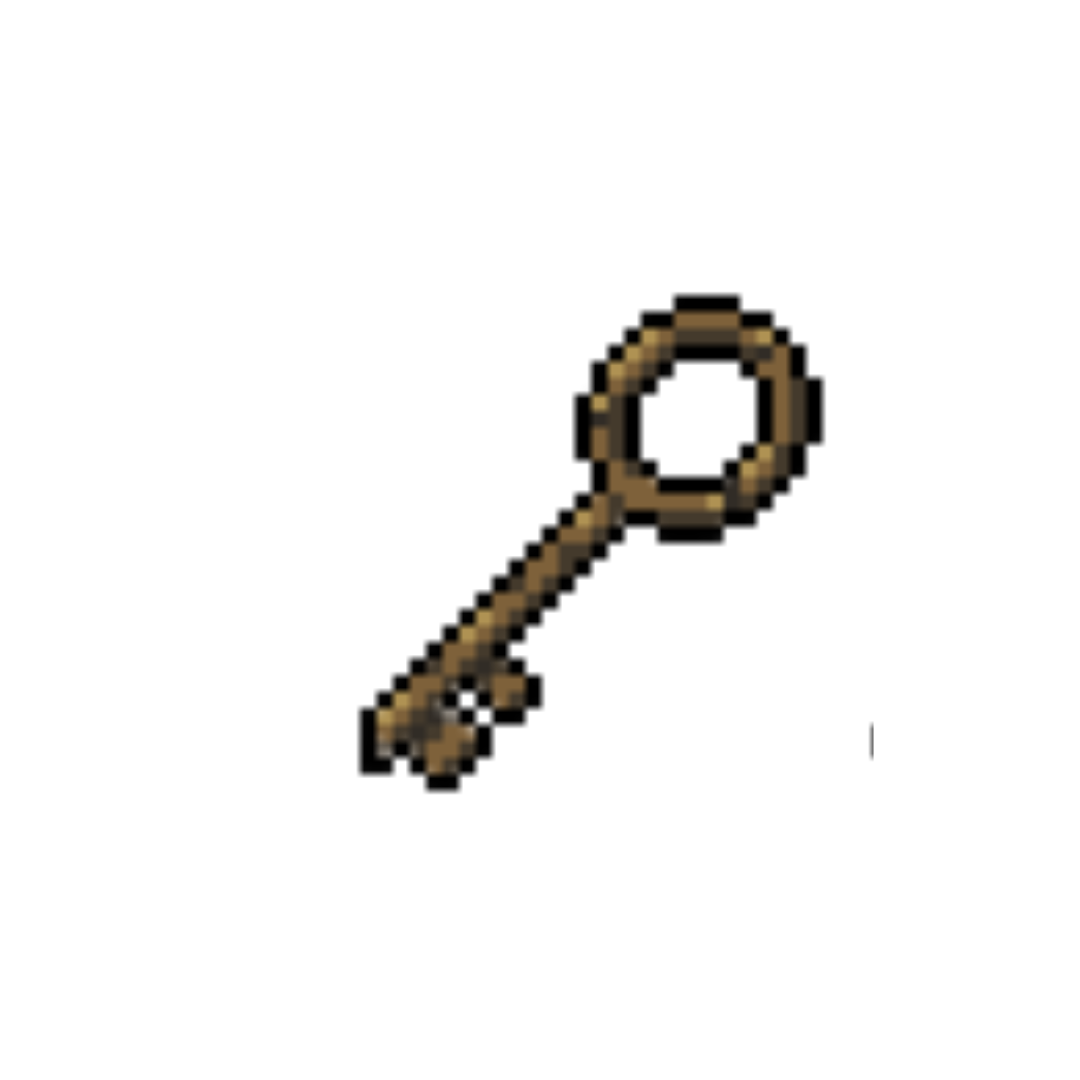
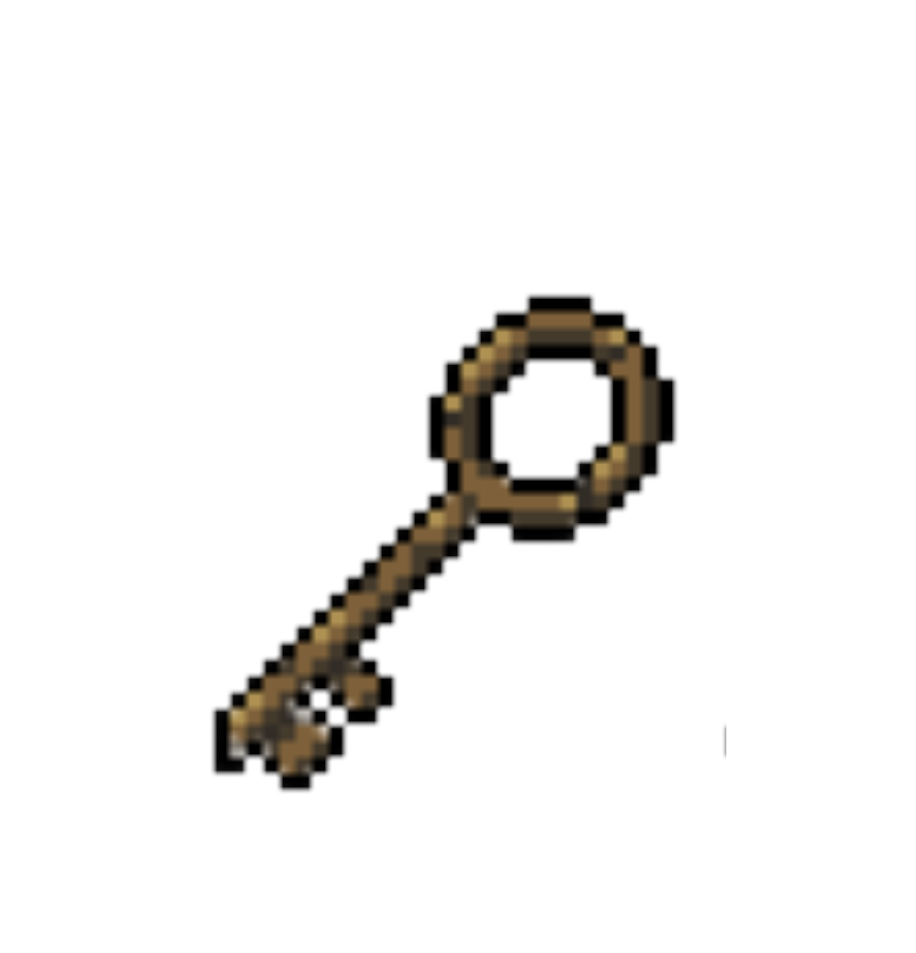
inventory added

Changed region(s): [[0.214, 0.2434, 0.7642, 0.852], [0.7948, 0.6695, 0.8253, 0.6999]]

diff --git a/project/Where are you/player.js b/project/Where are you/player.js
@@ -13,6 +13,8 @@ PLAYER.box.style.height = "10vh";
 let colliders = document.querySelectorAll('.collider');
 let keyItem = document.getElementById("keyItem");
 let hasKey = false;
+let collectedKey = document.getElementById("collectedKey");
+let collectedLetter = document.getElementById("collectedLetter")
 
 let door1 = document.getElementById("door1");
 let door2 = document.getElementById("door2");
@@ -62,6 +64,8 @@ function checkKeyPickup() {
         keyItem.style.display = "none";
         hasKey = true;
         document.getElementById("messages").innerText = "Now walk through the door";
+        collectedKey.innerHTML = `<img src="img/key.png" id="keyInventory"/> 
+        <p>collected</p>`;
     }
 }
 
@@ -78,6 +82,7 @@ function checkDoorEntry() {
             document.getElementById("currentRoom").innerText = "Corridor";
             PLAYER.box.style.left = "70vw";
             PLAYER.box.style.top = "50vh";
+            collectedKey.innerHTML = "";
         } else {
             document.getElementById("messages").innerText = "It is locked. Maybe there is a key";
         }
@@ -88,7 +93,7 @@ function checkDoorEntry() {
         document.getElementById("room1").style.display = "flex";
         document.getElementById("room2").style.display = "none";
         document.getElementById("map2").style.display = "none";
-        document.getElementById("messages").innerText = "You escaped a painful and deadly adventure";
+        document.getElementById("messages").innerText = "You escaped a painful death";
         document.getElementById("currentRoom").innerText = "Bedroom";
         document.getElementById("firstEnding").style.display = "block";
         PLAYER.box.style.left = "35vw";

diff --git a/project/Where are you/style.css b/project/Where are you/style.css
@@ -246,7 +246,7 @@ video {
         width: 56%;
         height: 100vh;
         right: 0;
-        background-color: #08356889;
+        background-color: #08356800;
         display: none;
         position: absolute;
         z-index: 70;
@@ -400,13 +400,27 @@ video {
     top: 3%;
     display: none;
 }
+#keyInventory{
+    width:20%;
+    height: 7vh;
+}
+#collectedKey{
+    height: 15vh;
+    
+    gap: 2;
+    display: flex;
+}
+#collectedKey p{
+    width: 20%;
+    font-size: 1.5em;
+}
 /*item*/
 .key{
     position:absolute;
-     width:7%; 
-     top:30%; 
-     left:40%;
-     display: none;
+    width:5%; 
+    top:30%; 
+    left:40%;
+    display: none;
 }
 /*current room*/
 #currentRoom{

diff --git a/project/Where are you/index.html b/project/Where are you/index.html
@@ -81,7 +81,7 @@
         <div id="messages">Use WASD to walk</div>
         <!--items-->
         <img src="img/key.png" id="keyItem" class="key"/>
-
+        <!--inventory-->
         <div id="inventory">
             <div id="collectedKey"></div>
             <div id="collectedLetter"></div>
